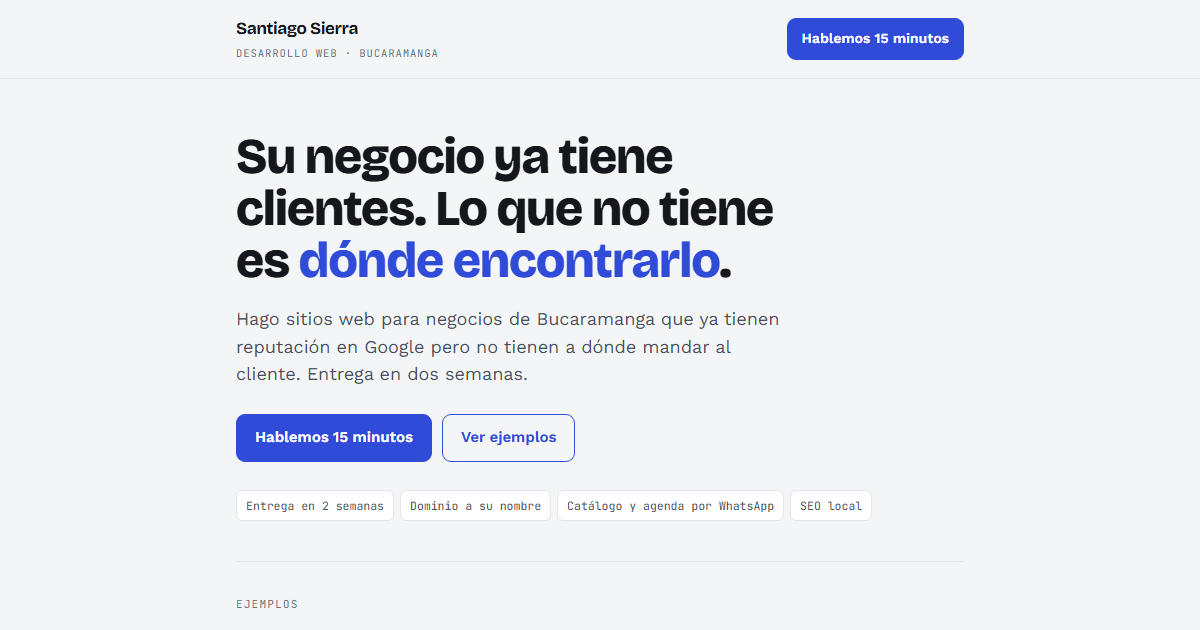
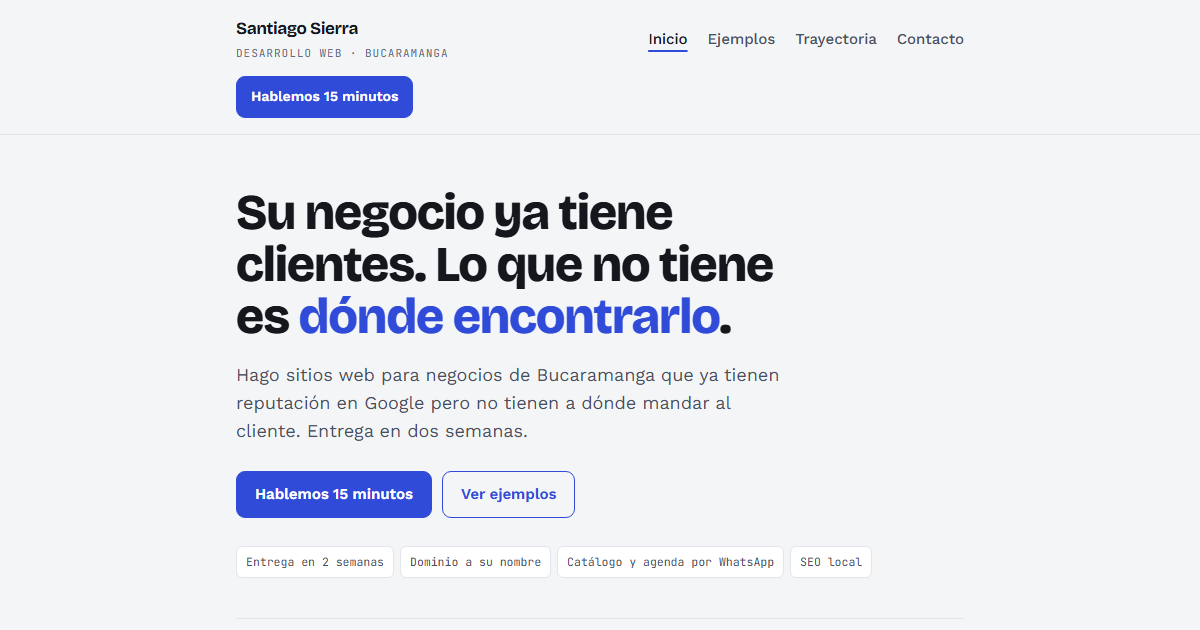
Agrega menú de navegación y enlace a la trayectoria en la portada

diff --git a/index.html b/index.html
@@ -63,9 +63,23 @@ a{color:var(--accent)}
 
 header{border-bottom:1px solid var(--line)}
 .hbar{display:flex;align-items:center;gap:14px;padding-block:16px;flex-wrap:wrap}
-.brand{font-family:var(--display);font-weight:700;font-size:17px;letter-spacing:-.02em}
+.brand{font-family:var(--display);font-weight:700;font-size:17px;letter-spacing:-.02em;color:var(--ink);text-decoration:none}
 .brand span{display:block;font-family:var(--mono);font-size:11px;font-weight:400;letter-spacing:.09em;text-transform:uppercase;color:var(--ink-3);margin-top:3px}
-.hbar .cta{margin-left:auto}
+.nav{margin-left:auto}
+.nav ul{list-style:none;margin:0;padding:0;display:flex;gap:20px}
+.nav a{color:var(--ink-2);text-decoration:none;font-size:15px;font-weight:500}
+.nav a:hover,.nav a[aria-current]{color:var(--ink)}
+.nav a[aria-current]{text-decoration:underline;text-decoration-color:var(--accent);text-decoration-thickness:2px;text-underline-offset:6px}
+.menu-btn{display:none;margin-left:auto;width:42px;height:42px;place-items:center;border:1px solid var(--line-2);border-radius:9px;background:transparent;color:var(--ink);cursor:pointer}
+@media (max-width:720px){
+  .js .menu-btn{display:grid}
+  .js .hbar .cta{display:none}
+  .nav{order:9}
+  .js .nav{display:none;flex-basis:100%;margin-left:0}
+  .js .nav.open{display:block}
+  .nav ul{flex-direction:column;gap:0}
+  .nav a{display:block;padding:13px 2px;border-top:1px solid var(--line);font-size:16px}
+}
 
 .btn{font-family:var(--body);font-size:15px;font-weight:600;padding:11px 18px;border-radius:9px;border:1.5px solid var(--accent);background:var(--accent);color:#fff;cursor:pointer;text-decoration:none;display:inline-block}
 :root[data-theme="dark"] .btn,:root:not([data-theme="light"]) .btn{color:#101218}
@@ -142,7 +156,18 @@ a:focus-visible,button:focus-visible{outline:2px solid var(--accent);outline-off
 
 <header>
   <div class="wrap hbar">
-    <div class="brand">Santiago Sierra<span>Desarrollo web · Bucaramanga</span></div>
+    <a class="brand" href="./">Santiago Sierra<span>Desarrollo web · Bucaramanga</span></a>
+    <button class="menu-btn" type="button" aria-expanded="false" aria-controls="nav" aria-label="Menú">
+      <svg width="20" height="20" viewBox="0 0 20 20" aria-hidden="true"><path d="M3 5h14M3 10h14M3 15h14" stroke="currentColor" stroke-width="1.8" stroke-linecap="round"/></svg>
+    </button>
+    <nav class="nav" id="nav" aria-label="Principal">
+      <ul>
+        <li><a href="./" aria-current="page">Inicio</a></li>
+        <li><a href="#trabajo">Ejemplos</a></li>
+        <li><a href="trayectoria/">Trayectoria</a></li>
+        <li><a href="#contacto">Contacto</a></li>
+      </ul>
+    </nav>
     <a class="btn sm cta" id="cta-top" href="#contacto">Hablemos 15 minutos</a>
   </div>
 </header>
@@ -261,9 +286,10 @@ a:focus-visible,button:focus-visible{outline:2px solid var(--accent);outline-off
     <p class="eyebrow">Quién hace el trabajo</p>
     <h2>Sobre mí</h2>
     <div class="yo">
-      <p><strong>Soy Santiago Sierra, desarrollador web en Bucaramanga.</strong> Trabajo con un socio y nos dedicamos a sitios para negocios de la ciudad: comercio, talleres, consultorios, gimnasios.</p>
-      <p>Vengo de soporte técnico y atención al cliente, y eso cambia cómo hago las cosas: sé qué se siente cuando un cliente escribe y nadie le contesta. Por eso los sitios que hago están armados para que el cliente encuentre lo que busca y pueda escribir en dos toques.</p>
-      <p>Llevamos poco tiempo trabajando así, y prefiero decirlo que inventar una trayectoria. Por eso el ejemplo de su página va sin costo y sin compromiso: el riesgo lo corro yo, no usted.</p>
+      <p><strong>Soy Santiago Sierra, desarrollador web en Bucaramanga.</strong> Hago sitios para negocios de la ciudad: comercio, talleres, consultorios, gimnasios.</p>
+      <p>También trabajo en soporte técnico y atención al cliente, y eso cambia cómo hago las cosas: sé qué se siente cuando un cliente escribe y nadie le contesta. Por eso los sitios que hago están armados para que el cliente encuentre lo que busca y pueda escribir en dos toques.</p>
+      <p>Llevo poco tiempo haciendo sitios para negocios, y prefiero decirlo que inventar experiencia. Por eso el ejemplo de su página va sin costo y sin compromiso: el riesgo lo corro yo, no usted.</p>
+      <p><a href="trayectoria/">Ver mi trayectoria: experiencia, formación y certificados →</a></p>
     </div>
   </section>
 
@@ -297,6 +323,13 @@ a:focus-visible,button:focus-visible{outline:2px solid var(--accent);outline-off
 </footer>
 
 <script>
+document.documentElement.classList.add("js");
+const menuBtn = document.querySelector(".menu-btn"), nav = document.getElementById("nav");
+const setMenu = open => { nav.classList.toggle("open", open); menuBtn.setAttribute("aria-expanded", open); };
+menuBtn.addEventListener("click", () => setMenu(!nav.classList.contains("open")));
+nav.addEventListener("click", e => { if (e.target.closest("a")) setMenu(false); });
+document.addEventListener("keydown", e => { if (e.key === "Escape" && nav.classList.contains("open")) { setMenu(false); menuBtn.focus(); } });
+
 /* ===== CAMBIA SOLO ESTAS LÍNEAS ===== */
 const CONFIG = {
   whatsapp: "315 514 0200",                 // tu número, sin +57
